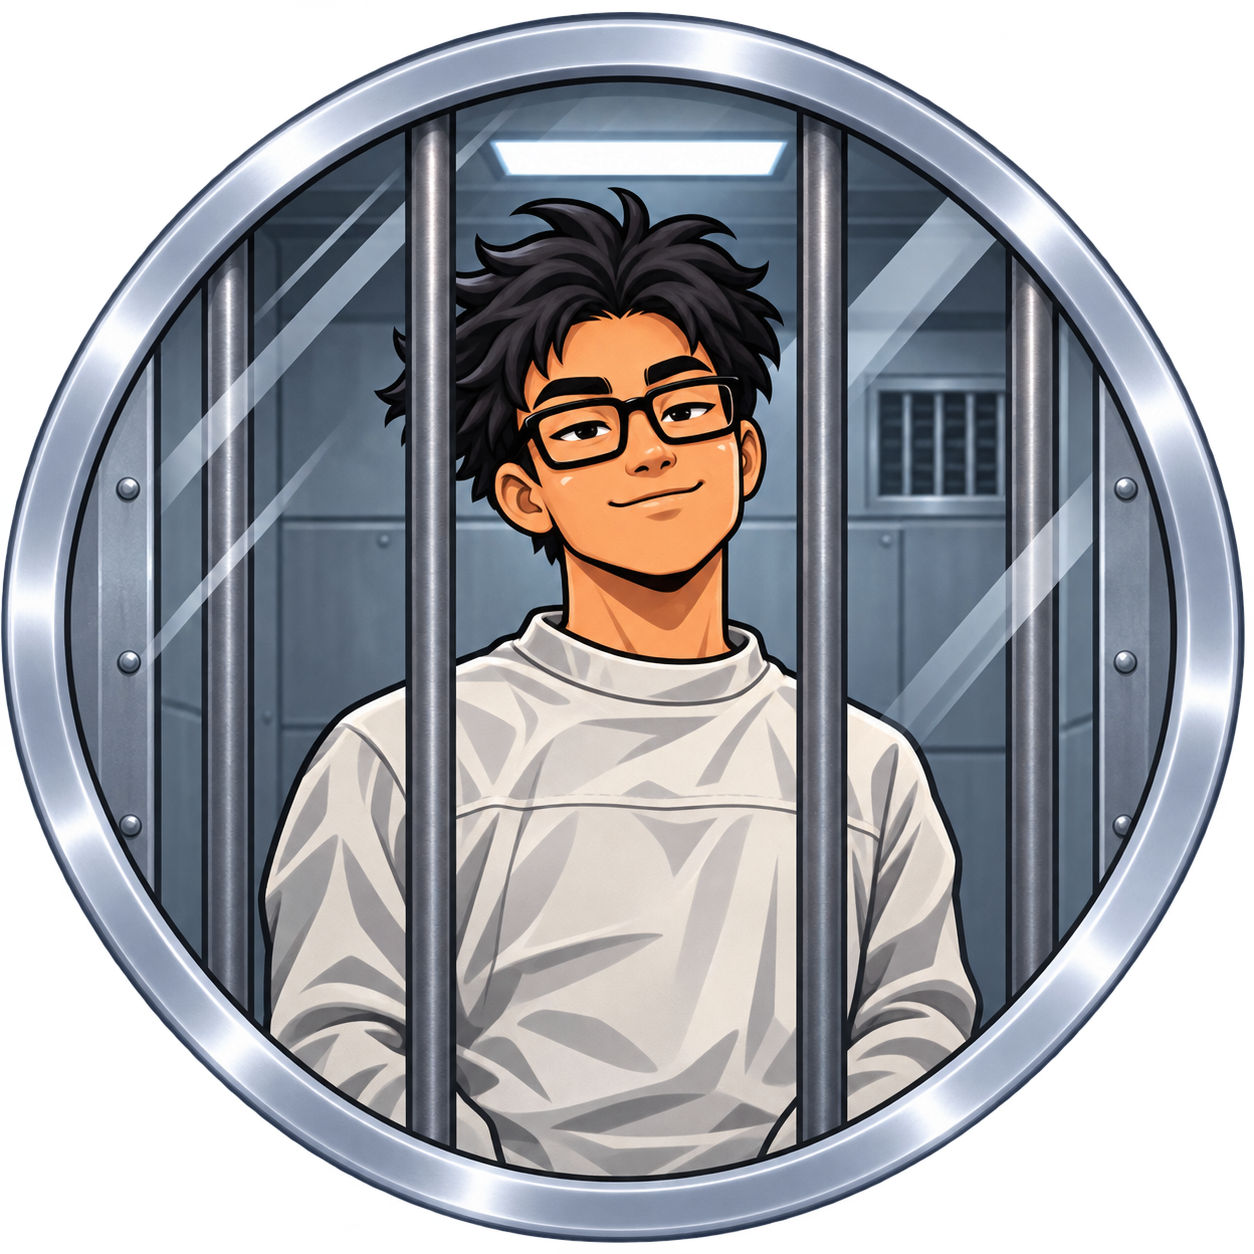
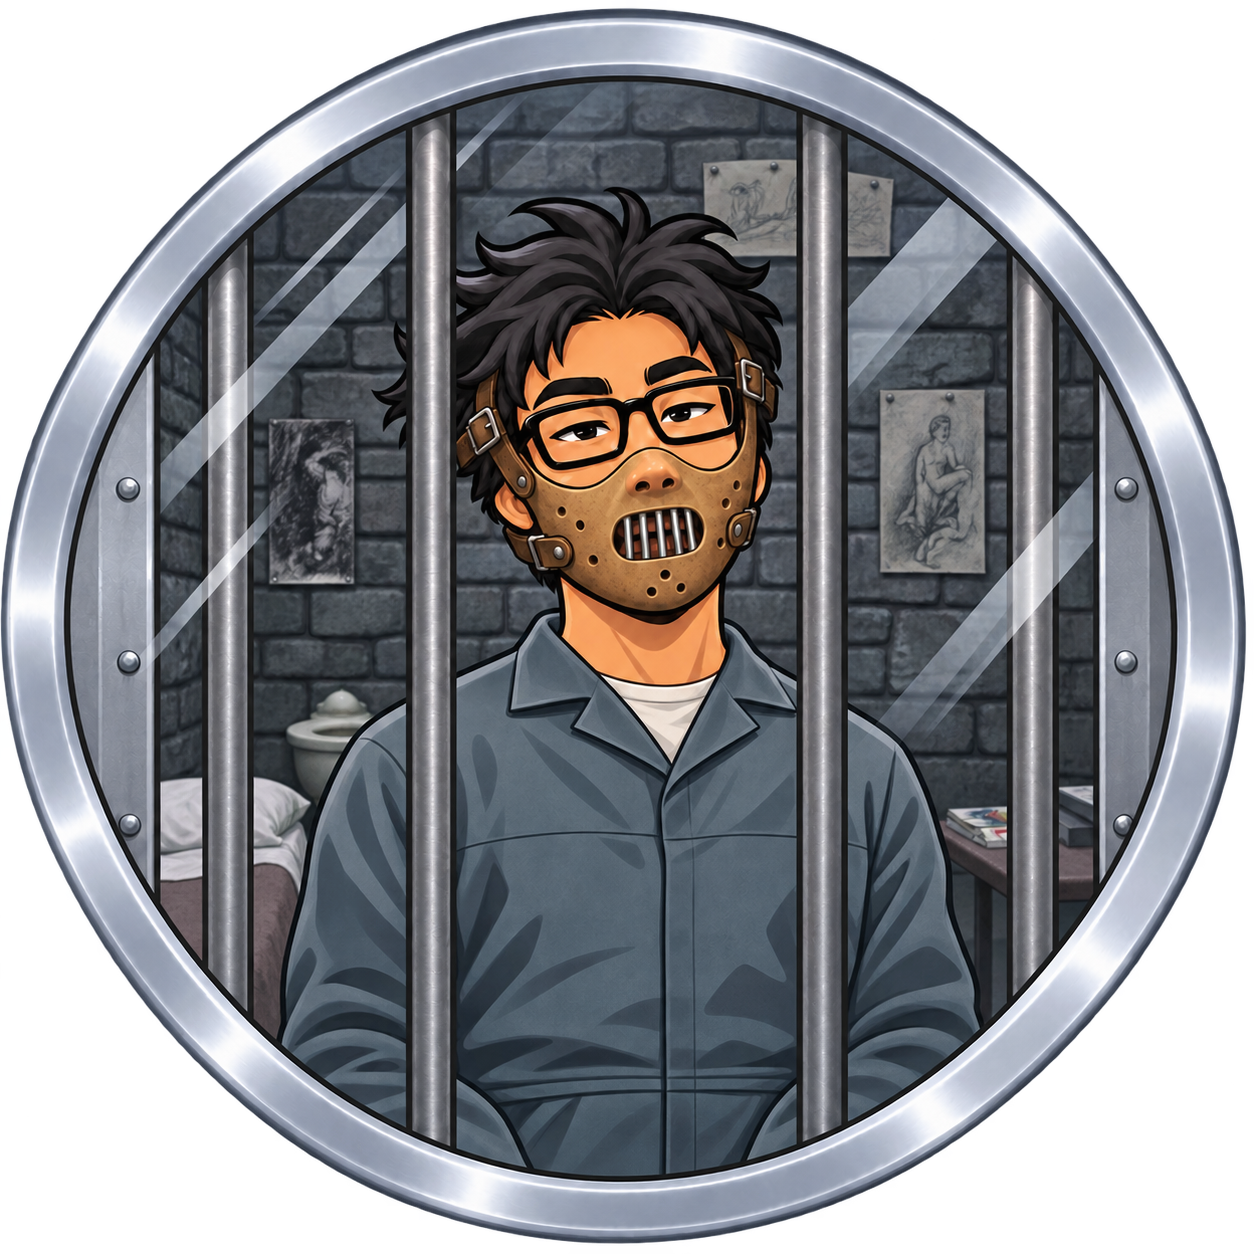
feat(achievements): revise mascot medal themes

diff --git a/src/manashelper/modules/gamification/application/catalog.py b/src/manashelper/modules/gamification/application/catalog.py
@@ -19,7 +19,7 @@ ACHIEVEMENTS = (
     Achievement("seller", "💩", 1),
     Achievement("eldin_balasy", "🤓", 3),
     Achievement("thin_ice", "🥶", 5),
-    Achievement("phoenix", "🔥", 1),
+    Achievement("phoenix", "👍", 1),
     Achievement("stability", "🧘", 3),
     Achievement("iron_attendance", "🔒", 1),
     Achievement("critic", "🧐", 100),

diff --git a/docs/gamification.md b/docs/gamification.md
@@ -40,7 +40,7 @@ rows remain stored, but only keys in the active achievement catalog contribute t
   (subjects without any percentage are ignored; an empty snapshot never qualifies). It is checked only in
   November–January and April–June (Bishkek time), because early-semester snapshots are trivially clean.
 - Critic counts a user's first rating of each daily menu (100 menus); changing an existing score does not count.
-- Phoenix: the last chronological attempt of a course code is a passing letter grade (AA–DD) and the code was
+- I'll be back (`phoenix`): the last chronological attempt of a course code is a passing letter grade (AA–DD) and the code was
   failed (F1/FF) earlier. Failed codes are remembered per academic account marker in `failed_courses`,
   because OBIS may overwrite a failed row with the retake result.
 - Stability: three consecutive fall/spring semesters with official totals and a semester GPA (points/credits,
@@ -89,11 +89,13 @@ Seller (suit meme), Formula One (racing-driver portrait), Champion (military sal
 Comeback/Negative growth (contrasting smiling and grim meme portraits), Cafeteria boss (chubby mascot
 with a fried-chicken bucket), Night owl (Anxiety character fusion), Eldin balasy (GigaChad fusion),
 Foodie (Naruto at Ichiraku with ramen and stacked bowls), On the edge (tightrope between skyscrapers),
-Iron attendance (Hannibal Lecter fusion behind bars in a glass cell), Critic (Anton Ego fusion reviewing a meal),
-Phoenix (fiery wings rising above a burning FF paper), Stability (meditating mascot beside three equal graph bars),
+Iron attendance (Hannibal Lecter fusion wearing his restraint mask behind bars in a glass cell),
+Critic (Anton Ego fusion stunned after tasting ratatouille), I'll be back (Terminator fusion sinking into lava with a thumbs-up),
+Stability (mascot as a meditating monk beside three equal graph bars),
 and Einstein (tongue-out portrait with wild white hair, E=mc² and a red FF on the chalkboard).
 The key mapping selects these images for earned medals and detail sheets; locked medals still use the atlas.
-Display names retain stable storage keys: `fall` is Negative growth, and `thin_ice` is On the edge.
+Display names retain stable storage keys: `fall` is Negative growth, `thin_ice` is On the edge,
+and `phoenix` is I'll be back.
 Reference screenshots/video under `reference/` are design inputs only, never served to clients.
 
 ## Build and verify locally
